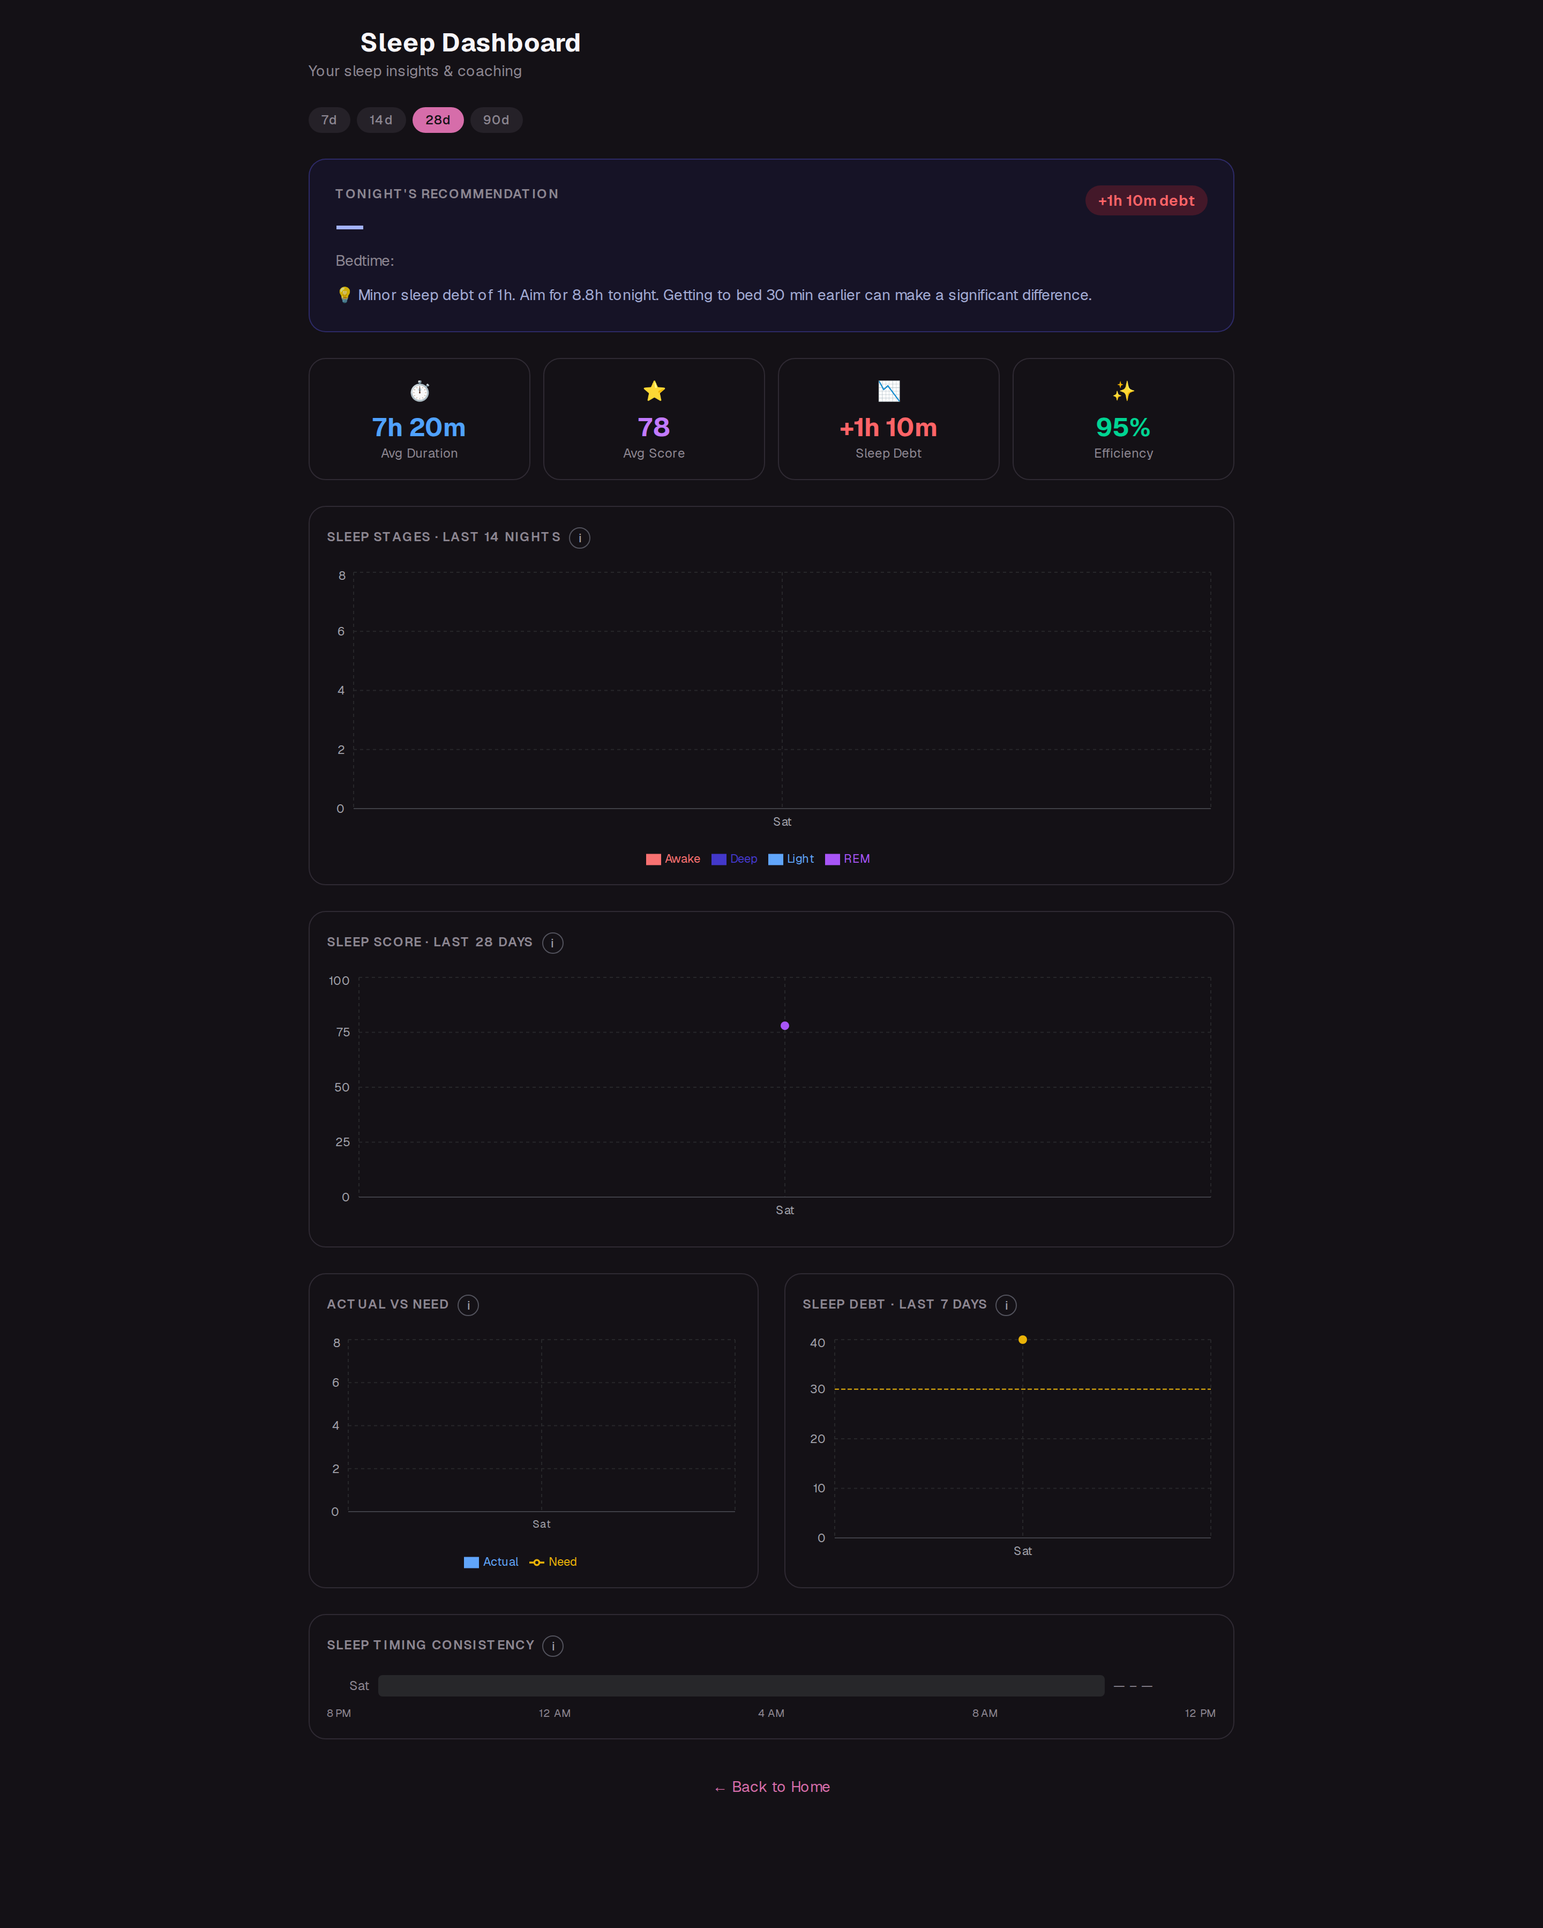
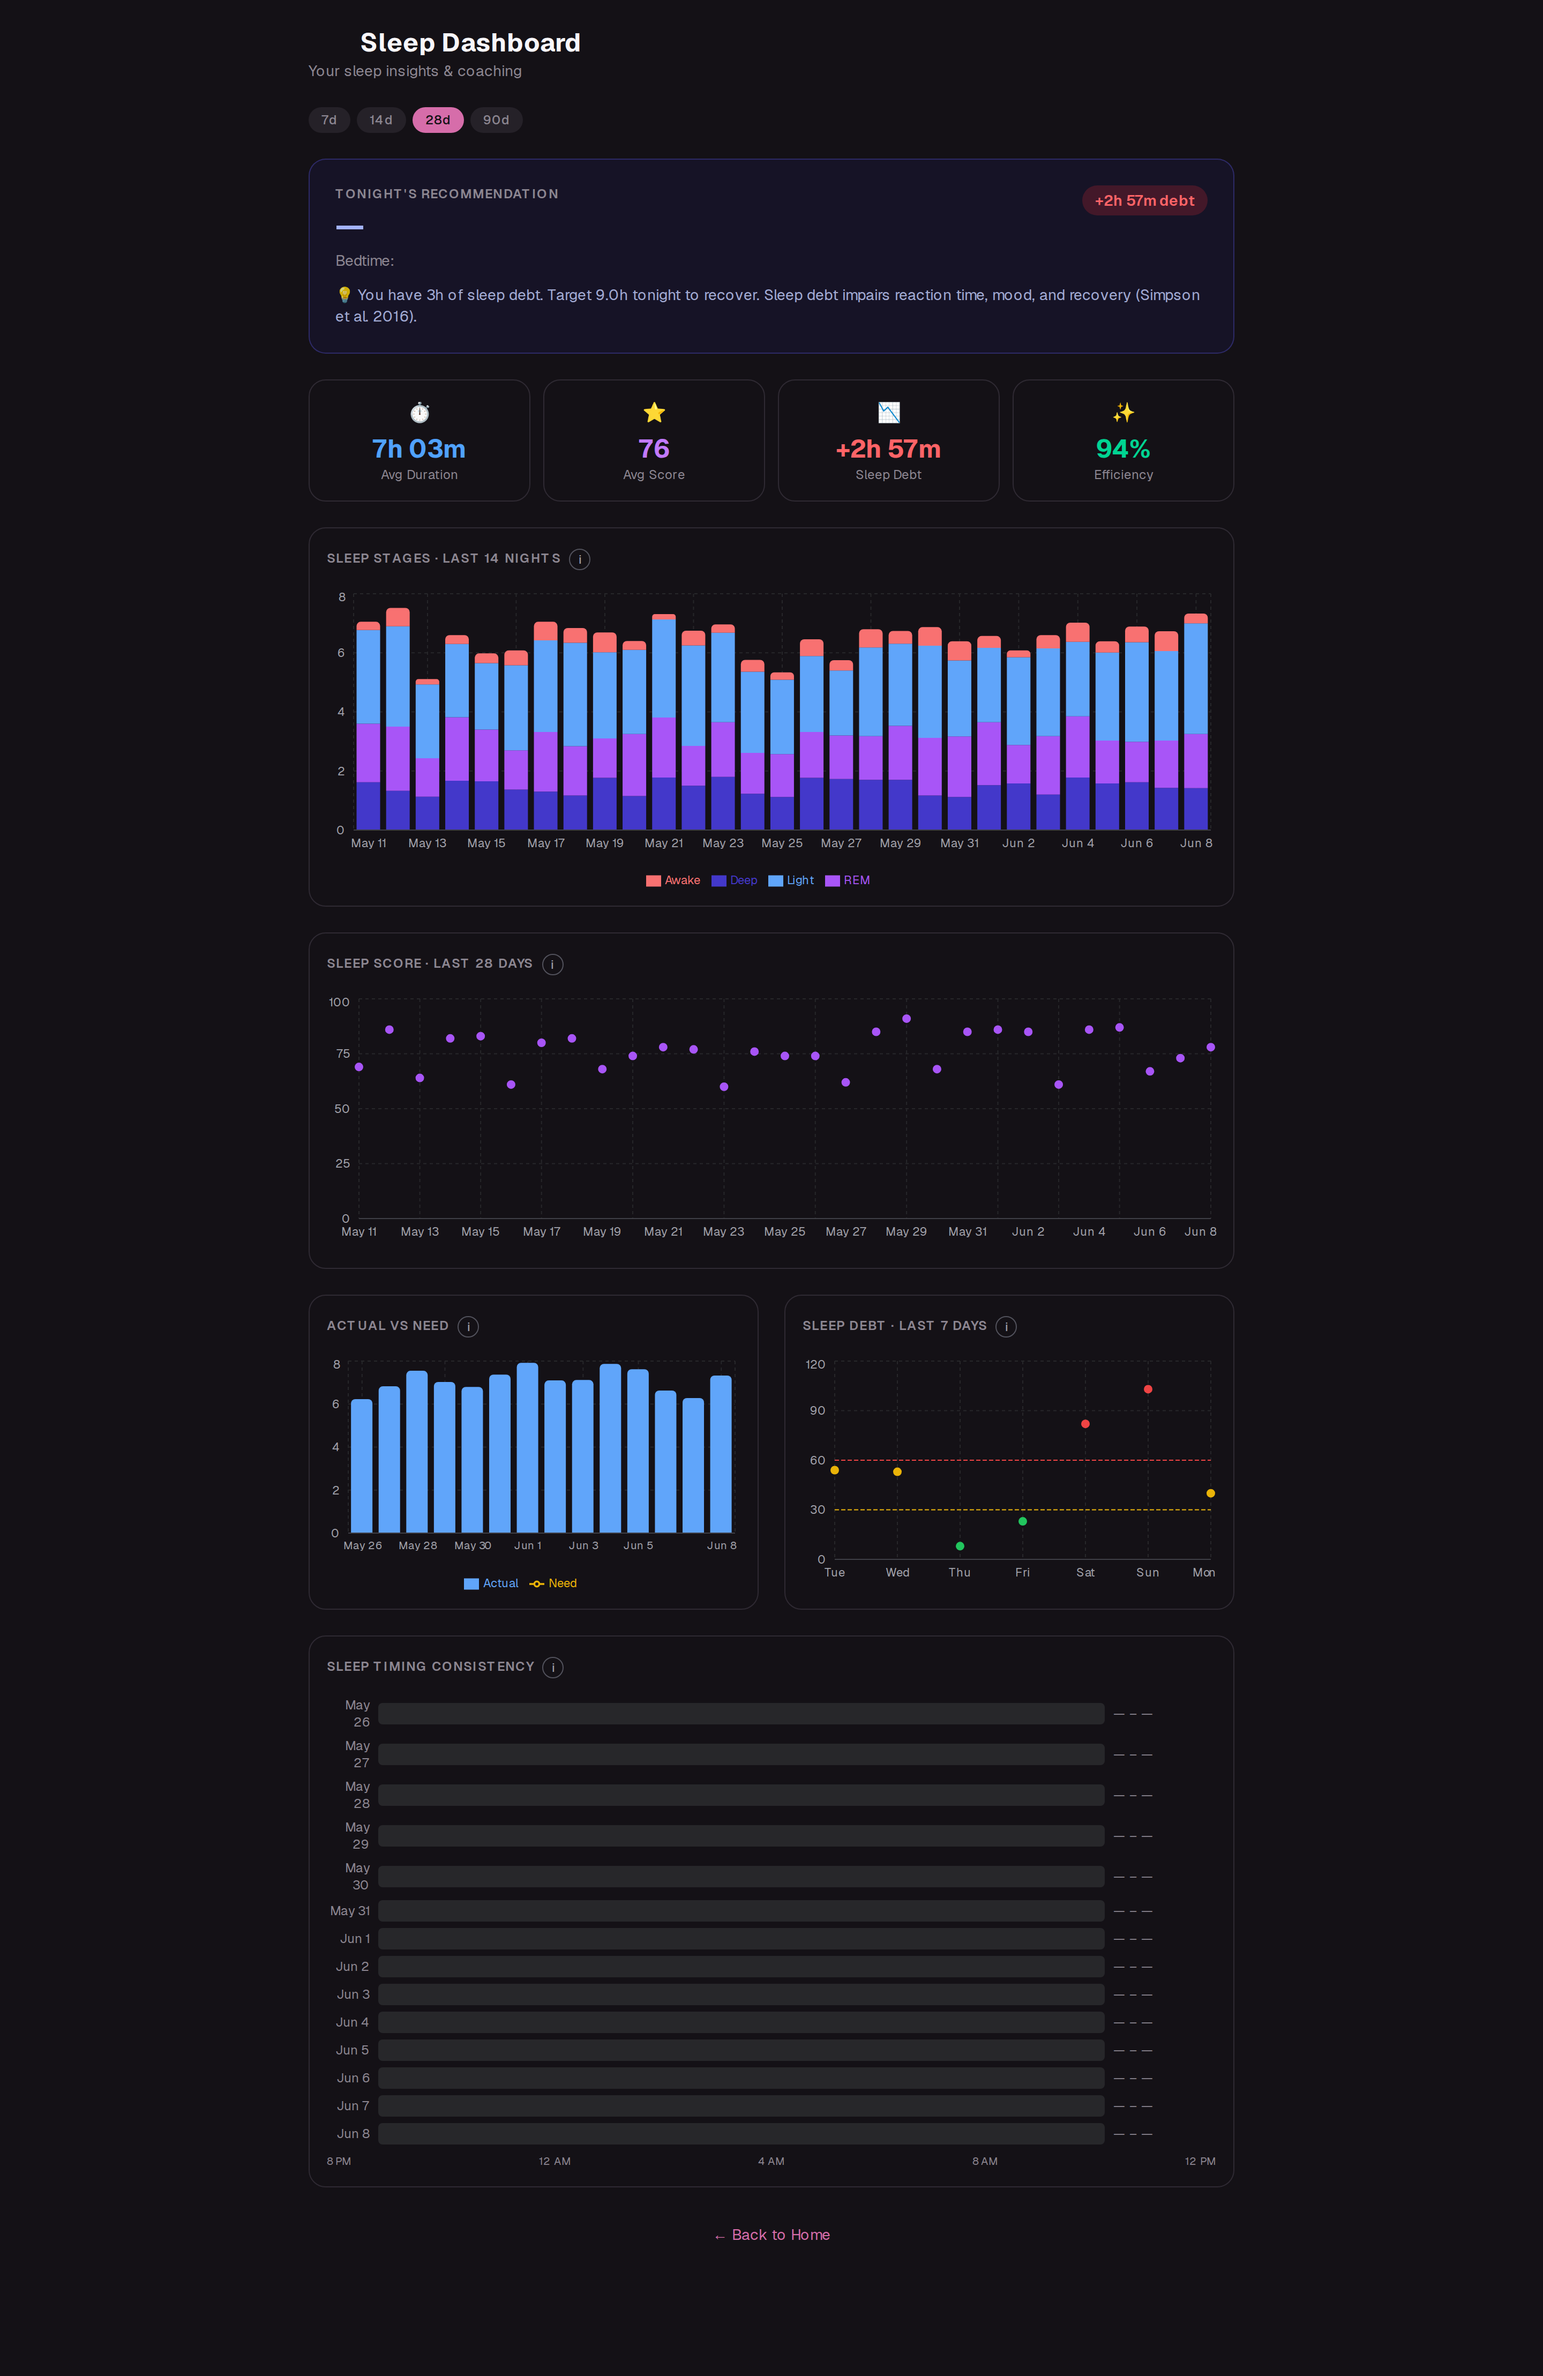
docs: refresh README screenshots with populated dashboards (#209)
The previous screenshots (v0.17.9) showed several screens with no data —
HRV ("1 reading"), Trends ("Not enough data") and Fitness ("No VO2max
data") — because the e2e seed pipeline left only a single day of history
and the add-on's auth bypass had regressed, so the dashboards rendered
empty.

Regenerate the desktop captures from the E2E Screenshots workflow
(athlete persona, v0.18.1) once both app-side fixes are in place:

- askb/ha-garmin-fitness-coach-app#278 — restore DEV_BYPASS_AUTH so the
  add-on's single-user mode authorizes dashboard queries again.
- askb/ha-garmin-fitness-coach-app#277 — seed VO2max history and stop the
  e2e seed from wiping the 90-day demo data.

HRV now shows 90 readings with baseline/CV%, Trends shows the multi-metric
overlay plus correlation insights, and Fitness shows VO2max trend, race
predictions and pace zones. Bump the caption to v0.18.1 / 2026-06-08.

diff --git a/README.md b/README.md
@@ -51,7 +51,7 @@ your local network.
 ## Screenshots
 
 A walkthrough of the main dashboards as they appear in the ingress UI
-(addon **v0.17.9**, captured **2026-05-29**). Mobile pairs for every
+(addon **v0.18.1**, captured **2026-06-08**). Mobile pairs for every
 screen below are captured alongside the desktop renders by the
 `tools/screenshots/` Playwright harness (run locally; output directory
 is git-ignored).
